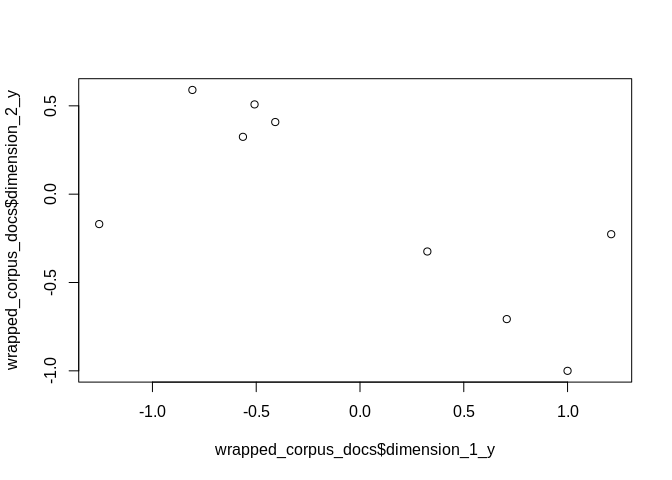
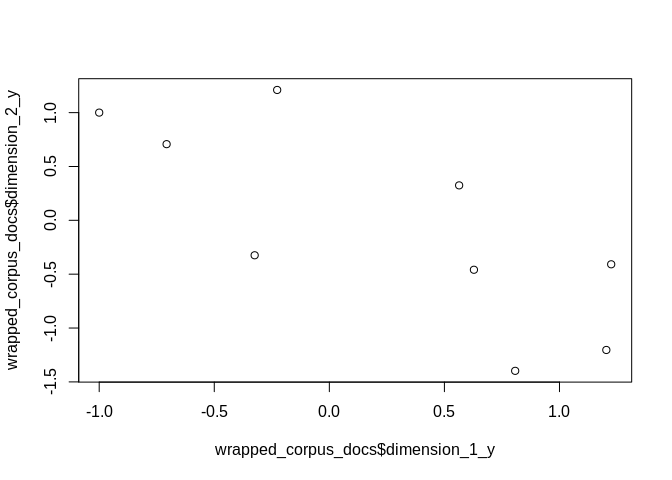
sim fix

diff --git a/README.md b/README.md
@@ -83,7 +83,7 @@ Then convert to matrix market format and serialise, the function returns the pat
 
 ``` r
 (corpus_mm <- mmcorpus_serialize(corpus_bow))
-#> ℹ Path: /tmp/RtmpN21h1S/file2d394241c671.mm 
+#> ℹ Path: /tmp/RtmpN21h1S/file2d394a47799a.mm 
 #>  ✔ Temp file
 ```
 
@@ -170,10 +170,13 @@ Similarity
 ``` r
 corpus_mm <- mmcorpus_serialize(corpus_bow)
 mm <- read_serialized_mmcorpus(corpus_mm)
+
+vec_bow <- dictionary$doc2bow(c("human", "computer", "interaction"))
+vec_lsi <- wrap(lsi, vec_bow)
+
 wrapped_lsi <- wrap(lsi, mm)
 index <- similarity_matrix(wrapped_lsi)
 
-vec_lsi <- dictionary$doc2bow(c("human", "computer", "interaction"))
 sims <- wrap(index, vec_lsi)
 
 x <- reticulate::py_to_r(sims)
@@ -184,15 +187,15 @@ tibble::tibble(
   dplyr::mutate(doc = doc - 1) %>% 
   dplyr::arrange(-cosine)
 #> # A tibble: 9 x 2
-#>     doc cosine
-#>   <dbl>  <dbl>
-#> 1     5  0.847
-#> 2     6  0.827
-#> 3     7  0.811
-#> 4     8  0.665
-#> 5     1 -0.518
-#> 6     4 -0.575
-#> 7     2 -0.612
-#> 8     0 -0.612
-#> 9     3 -0.616
+#>     doc  cosine
+#>   <dbl>   <dbl>
+#> 1     2  1.000 
+#> 2     0  1.000 
+#> 3     3  1.000 
+#> 4     4  0.999 
+#> 5     1  0.995 
+#> 6     8  0.194 
+#> 7     7 -0.0237
+#> 8     6 -0.0516
+#> 9     5 -0.0880
 ```
